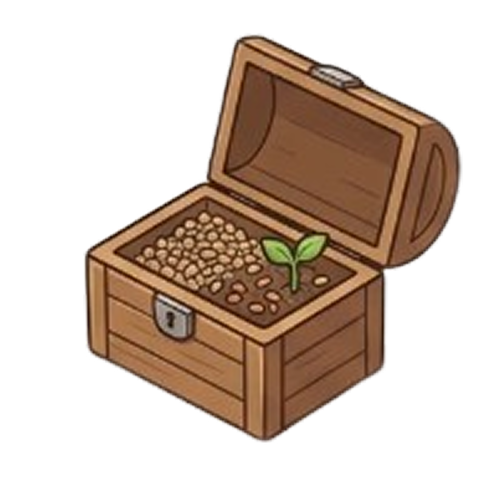
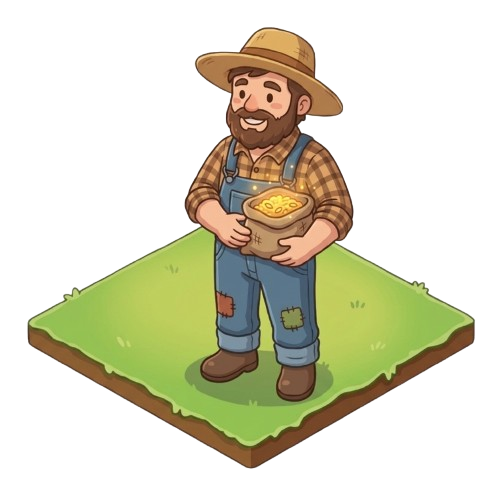
467

diff --git a/views/combat.html b/views/combat.html
@@ -1600,6 +1600,20 @@ window.combatApp = {
                     this.animateOpponentActions(data.actions);
                 }
                 if (data.emote) {
+                    const myUser = sessionStorage.getItem('username');
+                    // Ignorar si el emote fue emitido por uno mismo
+                    if (data.emote.sender && myUser && data.emote.sender === myUser) {
+                        return;
+                    }
+                    // Evitar procesar paquetes duplicados que lleguen en ráfaga
+                    const emoteHash = `${data.emote.emoji}_${data.emote.text}_${data.emote.id || ''}`;
+                    const now = Date.now();
+                    if (this._lastRecvEmote === emoteHash && now - (this._lastRecvEmoteTime || 0) < 1200) {
+                        return;
+                    }
+                    this._lastRecvEmote = emoteHash;
+                    this._lastRecvEmoteTime = now;
+
                     this.sendEmote(data.emote.emoji, data.emote.text, true);
                 }
                 if (data.winner) {
@@ -2974,6 +2988,15 @@ window.combatApp = {
         const w = document.getElementById('cb-emote-wheel');
         if (w) w.classList.add('hidden');
 
+        // Cooldown para evitar que el jugador spamee emotes locales
+        if (!isEnemy) {
+            const now = Date.now();
+            if (this.lastEmoteTime && now - this.lastEmoteTime < 2000) {
+                return;
+            }
+            this.lastEmoteTime = now;
+        }
+
         const targetTeam = isEnemy ? this.enemyTeam : this.playerTeam;
         const targetPrefix = isEnemy ? 'enemy' : 'player';
         const aliveIdx = targetTeam.findIndex(u => u.hp > 0);
@@ -2981,12 +3004,18 @@ window.combatApp = {
 
         this.showSpeechBubble(domId, emoji, text, isEnemy);
 
-        // Si es PvP y hay socket activo, emitir al rival via combat_action
-        if (this.isPvP && window.socket) {
+        // ¡CRUCIAL!: Sólo emitir al socket si el emote es propio (!isEnemy).
+        // NUNCA emitir si isEnemy es true, ya que proviene del rival y crearía un bucle infinito de retransmisión.
+        if (!isEnemy && this.isPvP && window.socket) {
             try {
                 window.socket.emit('combat_action', {
                     match_id: this.matchId,
-                    emote: { emoji: emoji, text: text }
+                    emote: { 
+                        emoji: emoji, 
+                        text: text,
+                        sender: sessionStorage.getItem('username') || ('user_' + Math.random().toString(36).substring(2, 6)),
+                        id: Date.now() + '_' + Math.random().toString(36).substring(2, 5)
+                    }
                 });
             } catch(err) {}
         }
@@ -3013,6 +3042,12 @@ window.combatApp = {
         const root = document.getElementById('combat-root');
         if (!tgt || !layer || !root) return;
 
+        // Limpiar cualquier burbuja previa en el escenario para que no se apilen ni queden pegadas
+        const oldBubbles = layer.querySelectorAll('.cb-speech-bubble');
+        oldBubbles.forEach(b => {
+            try { b.remove(); } catch(e) {}
+        });
+
         const sprite = tgt.querySelector('.cb-unit-sprite') || tgt;
         const r = sprite.getBoundingClientRect();
         const rr = root.getBoundingClientRect();
@@ -3033,12 +3068,16 @@ window.combatApp = {
         layer.appendChild(bubble);
         this.playSound('attack');
 
+        // Desvanecer y eliminar con seguridad tras 2.2 segundos
         setTimeout(() => {
+            if (!bubble.parentNode) return;
             bubble.style.transition = 'opacity 0.35s ease, transform 0.35s ease';
             bubble.style.opacity = '0';
             bubble.style.transform = 'translateY(-20px)';
-            setTimeout(() => bubble.remove(), 350);
-        }, 2400 / this.speedMultiplier);
+            setTimeout(() => {
+                if (bubble.parentNode) bubble.remove();
+            }, 350);
+        }, 2200);
     },
 
     // ---- Nivel I: proyectil veloz con estela ----

diff --git a/views/farm.html b/views/farm.html
@@ -16,10 +16,13 @@
 
             <!-- Contenedor agrupado para PC (Duelo + Árbol + Clima) -->
             <div class="col-span-3 sm:col-span-1 flex gap-2 w-full sm:w-auto">
+                
                 <!-- BOTÓN DUELO -->
-                <button onclick="intentarDuelo()" class="flex-1 sm:w-auto sm:min-w-[120px] h-full min-h-[48px] sm:min-h-[56px] bg-white hover:bg-gray-50 border border-gray-200 rounded-2xl shadow-sm font-black text-cg_navy flex items-center justify-center gap-1.5 transition-all active:scale-95 px-3">
+                <button onclick="intentarDuelo()" class="relative flex-1 sm:w-auto sm:min-w-[120px] h-full min-h-[48px] sm:min-h-[56px] bg-white hover:bg-gray-50 border border-gray-200 rounded-2xl shadow-sm font-black text-cg_navy flex items-center justify-center gap-1.5 transition-all active:scale-95 px-3">
                     <span class="text-lg text-red-500 drop-shadow-sm">⚔</span> 
                     <span class="text-[10px] sm:text-xs uppercase tracking-widest">Duelo</span>
+                    <!-- Nuevo badge contador -->
+                    <span id="mm-count-badge" class="absolute -top-2 -right-2 bg-cg_blue text-white text-[10px] font-black px-2 py-0.5 rounded-full shadow-md animate-pulse">0</span>
                 </button>
                 
                 <!-- WIDGET DE CLIMA / ESTACIÓN ACTUAL (Escritorio) -->
@@ -831,6 +834,10 @@ if (typeof window.farmApp === 'undefined') {
         window.socket.on('matchmaking_count', (data) => {
             const el = document.getElementById('mm-count');
             if (el) el.innerText = data.count;
+            
+            // Nueva línea para actualizar el botón exterior
+            const badge = document.getElementById('mm-count-badge');
+            if (badge) badge.innerText = data.count;
         });
 
         // --- MANEJO DE NEGOCIACIÓN DE MATCHMAKING ---
